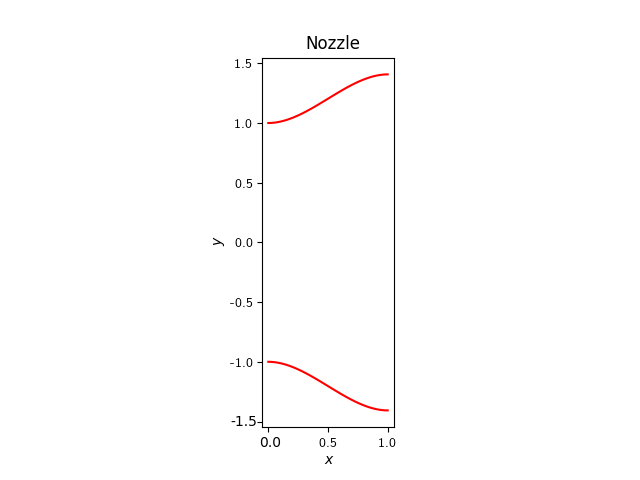
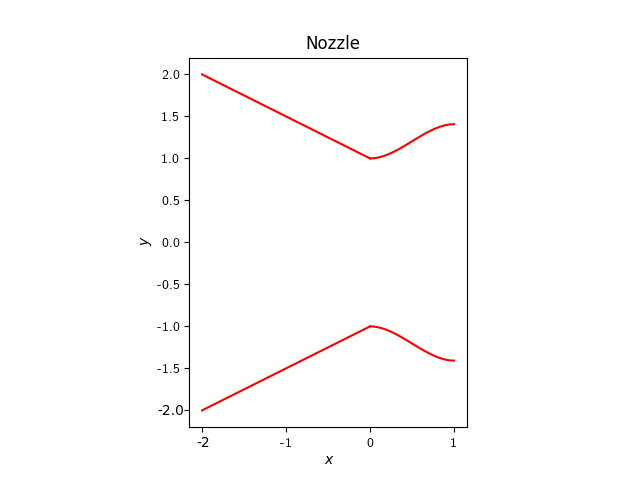
Improving isentropic flow

diff --git a/nozzle.py b/nozzle.py
@@ -5,8 +5,11 @@ ps = 1.0
 pi0 = 1.5
 
 # shape is the ratio A(x)/A_throat
-def shape(x):
+def divergent_shape(x):
     return 1 + 0.407*x**2*(3-2*x)
+
+def convergent_shape(x):
+    return 1 - 0.5*x
 
 # Situations occuring while increasing pi0
 # A - No Shock (one sonic section)
@@ -17,10 +20,14 @@ def shape(x):
 
 def plot_nozzle():
     fig, ax = subplots(1,1)
-    geom_x = linspace(0., 1., 100)
-    geom_y = shape(geom_x)
-    ax.plot(geom_x, geom_y, 'r')
-    ax.plot(geom_x, -geom_y, 'r')
+    divergent_geom_x = linspace(0., 1., 100)
+    divergent_geom_y = divergent_shape(divergent_geom_x)
+    ax.plot(divergent_geom_x, divergent_geom_y, 'r')
+    ax.plot(divergent_geom_x, -divergent_geom_y, 'r')
+    convergent_geom_x = linspace(-2., 0., 100)
+    convergent_geom_y = convergent_shape(convergent_geom_x)
+    ax.plot(convergent_geom_x, convergent_geom_y, 'r')
+    ax.plot(convergent_geom_x, -convergent_geom_y, 'r')
     rc('text', usetex=True)
     gca().set_aspect('equal', adjustable='box')
     xlabel('$x$')

diff --git a/gas_dynamics.py b/gas_dynamics.py
@@ -1,3 +1,4 @@
+from numpy import arcsin, arctan, pi, tan
 
 # Physical constants
 M_air = 28.965338/1000. # kg/mol
@@ -14,3 +15,29 @@ def mayer_cp(gamma):
 
 def mayer_cv(gamma):
     return r/(gamma-1) # J/K/kg
+
+# Sound
+def sound_velocity(T, gamma): # m/s
+    return (gamma*r*T)**(1./2.)
+
+def mach_angle(M): # rad
+    return arcsin(1./M)
+
+# Ratios
+def Theta(gamma, M):
+    return (1.+M**2.*(gamma-1.)/2.)**-1.
+
+def omega_bar(gamma, M):
+    return Theta(gamma, M)**(gamma/(gamma-1.))
+
+def R(gamma, M):
+    return Theta(gamma, M)**(1./(gamma-1.))
+
+def Sigma(gamma, M):
+    return (2.*Theta(gamma, M)/(gamma+1.))**-((gamma+1.)/(2.*(gamma-1.)))/M
+
+def phi(gamma, M):
+    return omega_bar(gamma, M)*Sigma(gamma, M)*(1+gamma*M**2)
+
+def omega(gamma, M): # rad
+    return mach_angle(M) + ((gamma+1.)/(gamma-1.))**(1./2.)*arctan(1./(tan(mach_angle(M))*(gamma+1.)/(gamma-1.)))-pi/2.

diff --git a/isentropic_gas_flow.py b/isentropic_gas_flow.py
@@ -1,0 +1,20 @@
+from gas_dynamics import sound_velocity, mach_angle, mayer_cv, mayer_cp, Theta, omega_bar, R, Sigma
+
+# Inputs
+M = 1.2
+T = 273.15 # K
+gamma = 1.4 
+
+# Outputs
+V = M*sound_velocity(T, gamma)
+mu = mach_angle(M)
+
+# Energy
+u = mayer_cv(gamma)*T
+h = mayer_cp(gamma)*T
+
+# Ratios
+T_Ti = Theta(gamma, M)
+p_pi = omega_bar(gamma, M)
+rho_rhoi = R(gamma, M)
+A_Ac = Sigma(gamma, M)
